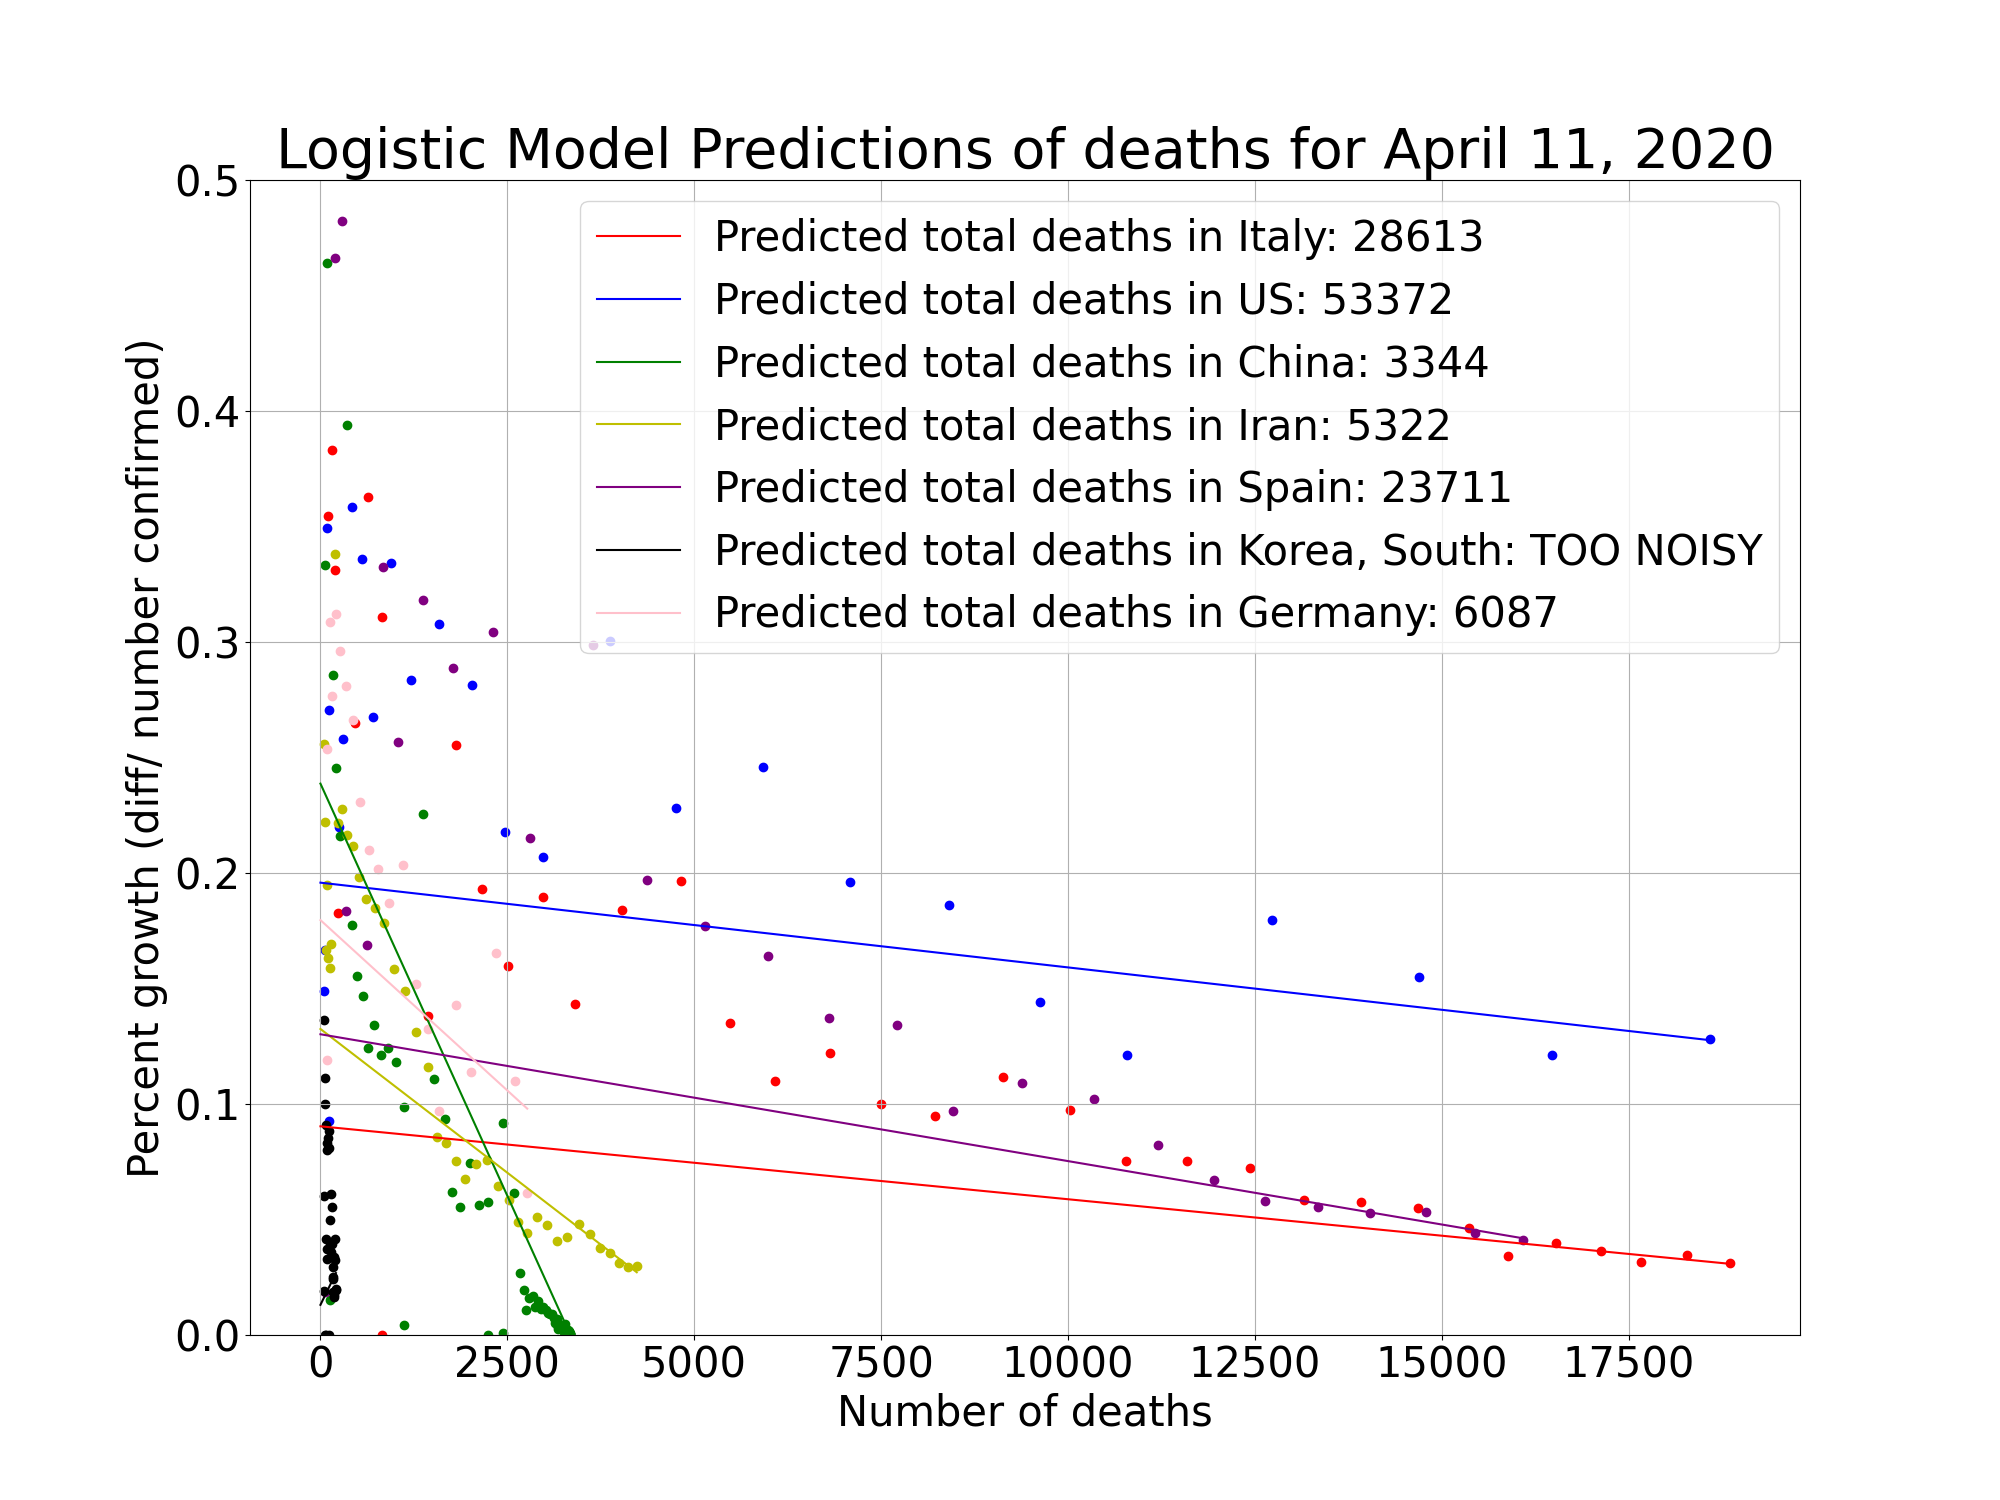
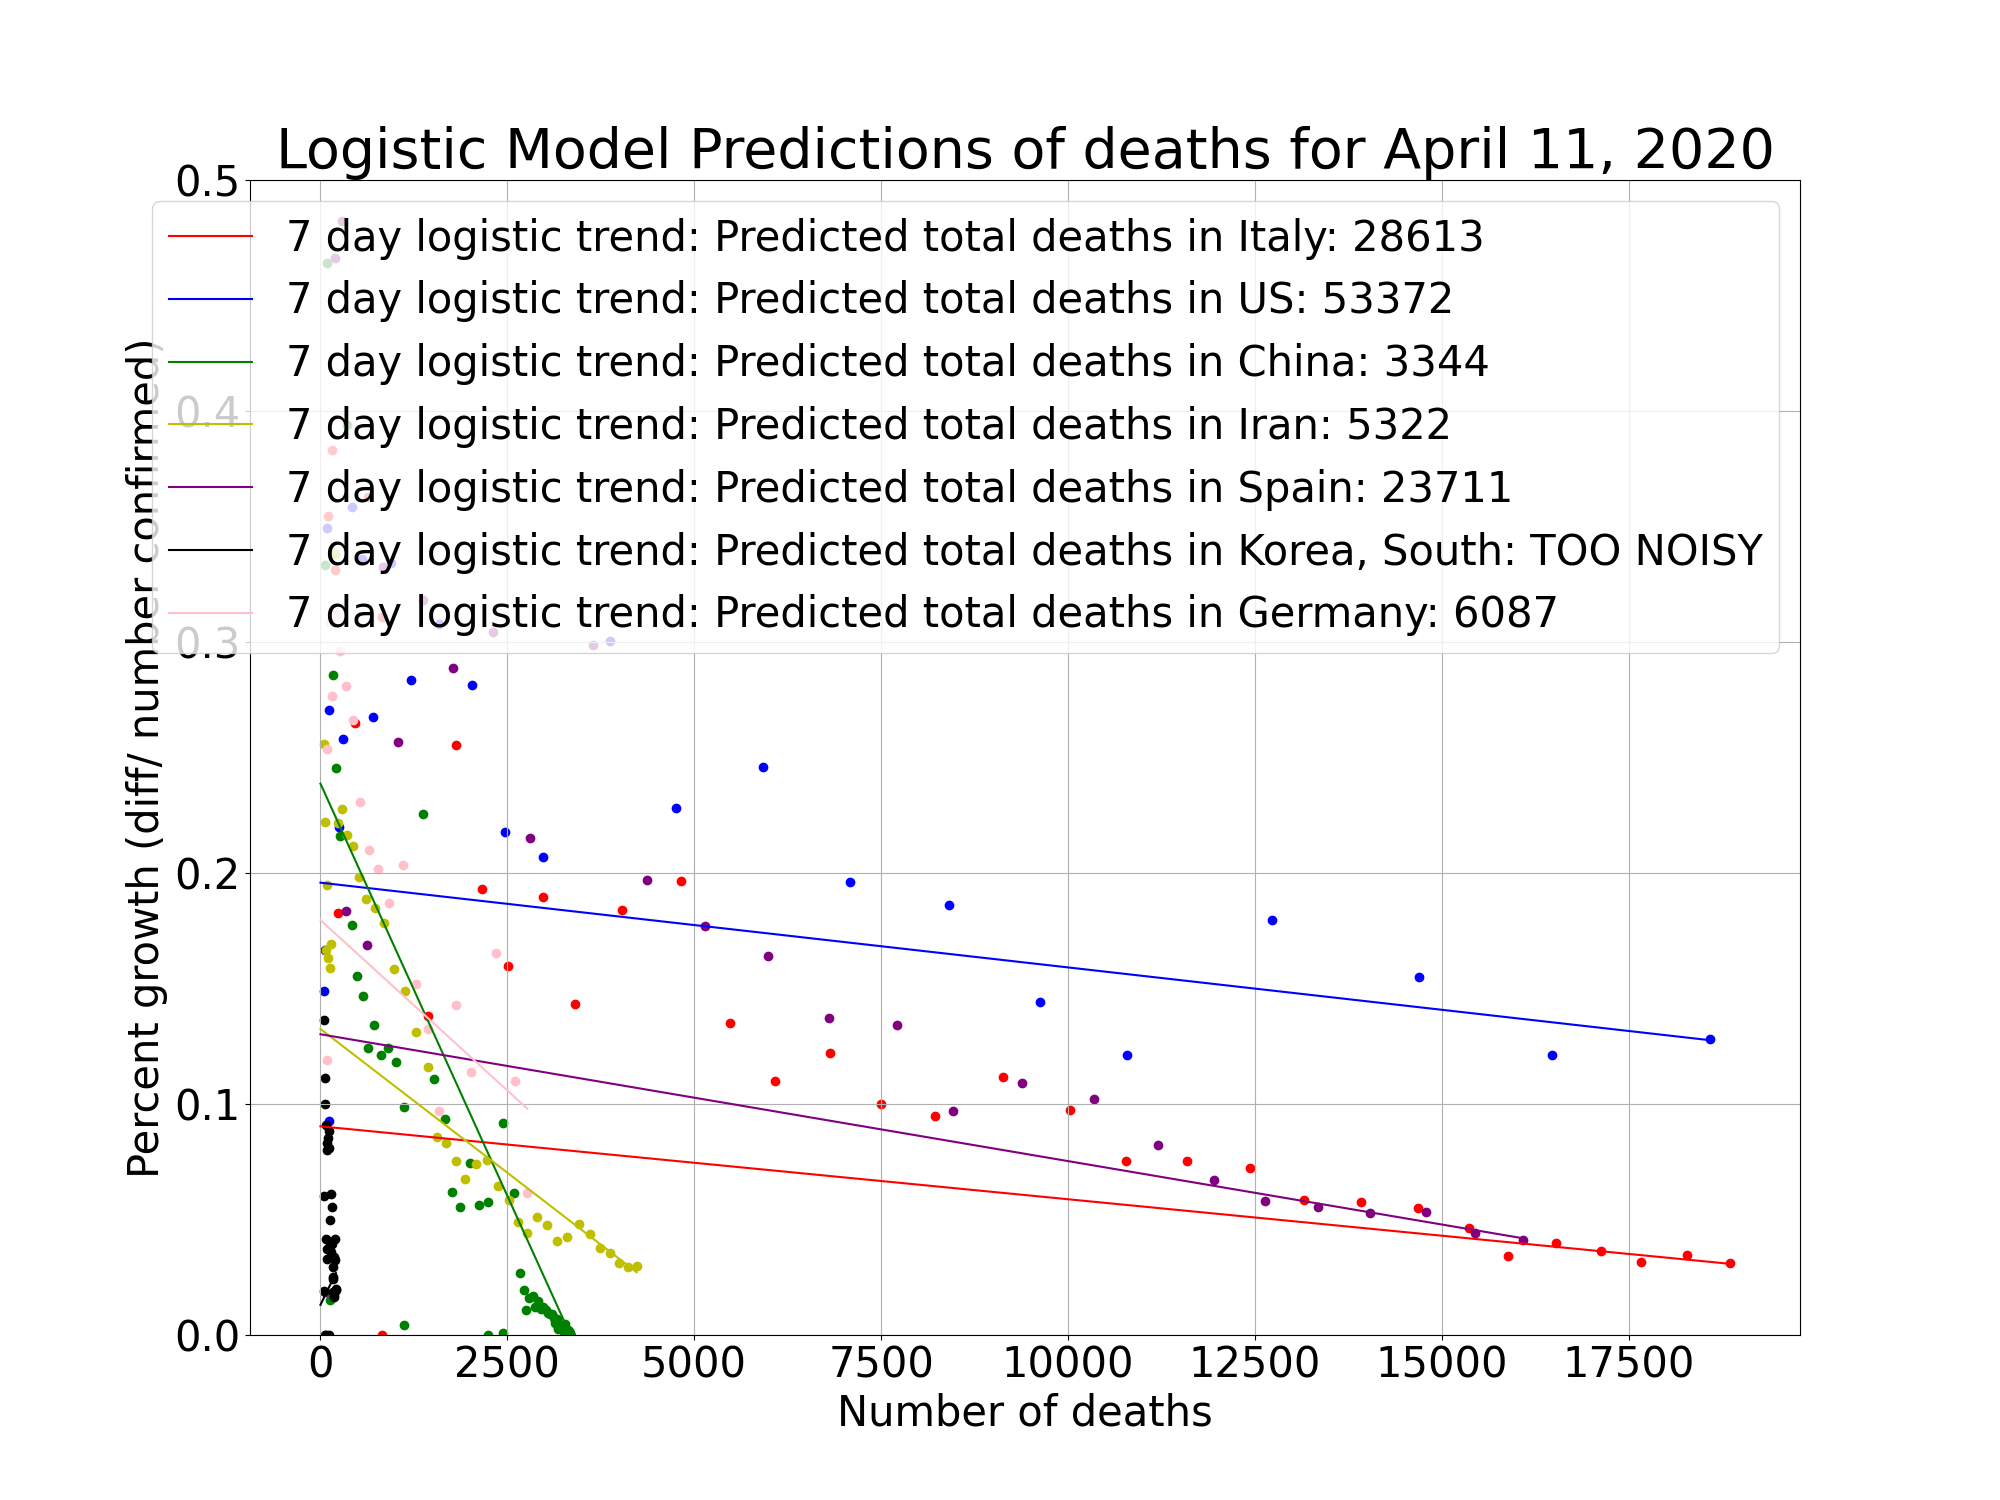
auto update

diff --git a/update_plots.py b/update_plots.py
@@ -54,7 +54,7 @@ for data_type in ('cases', 'deaths'):
             x_intercept = 'TOO NOISY'
         if x_intercept < 0:
             x_intercept = 'TOO NOISY'
-        info = "Predicted total %s in %s: %s" % (
+        info = "7 day logistic trend: Predicted total %s in %s: %s" % (
             data_type, country, x_intercept)
         print(info)
         legends.append(info)
